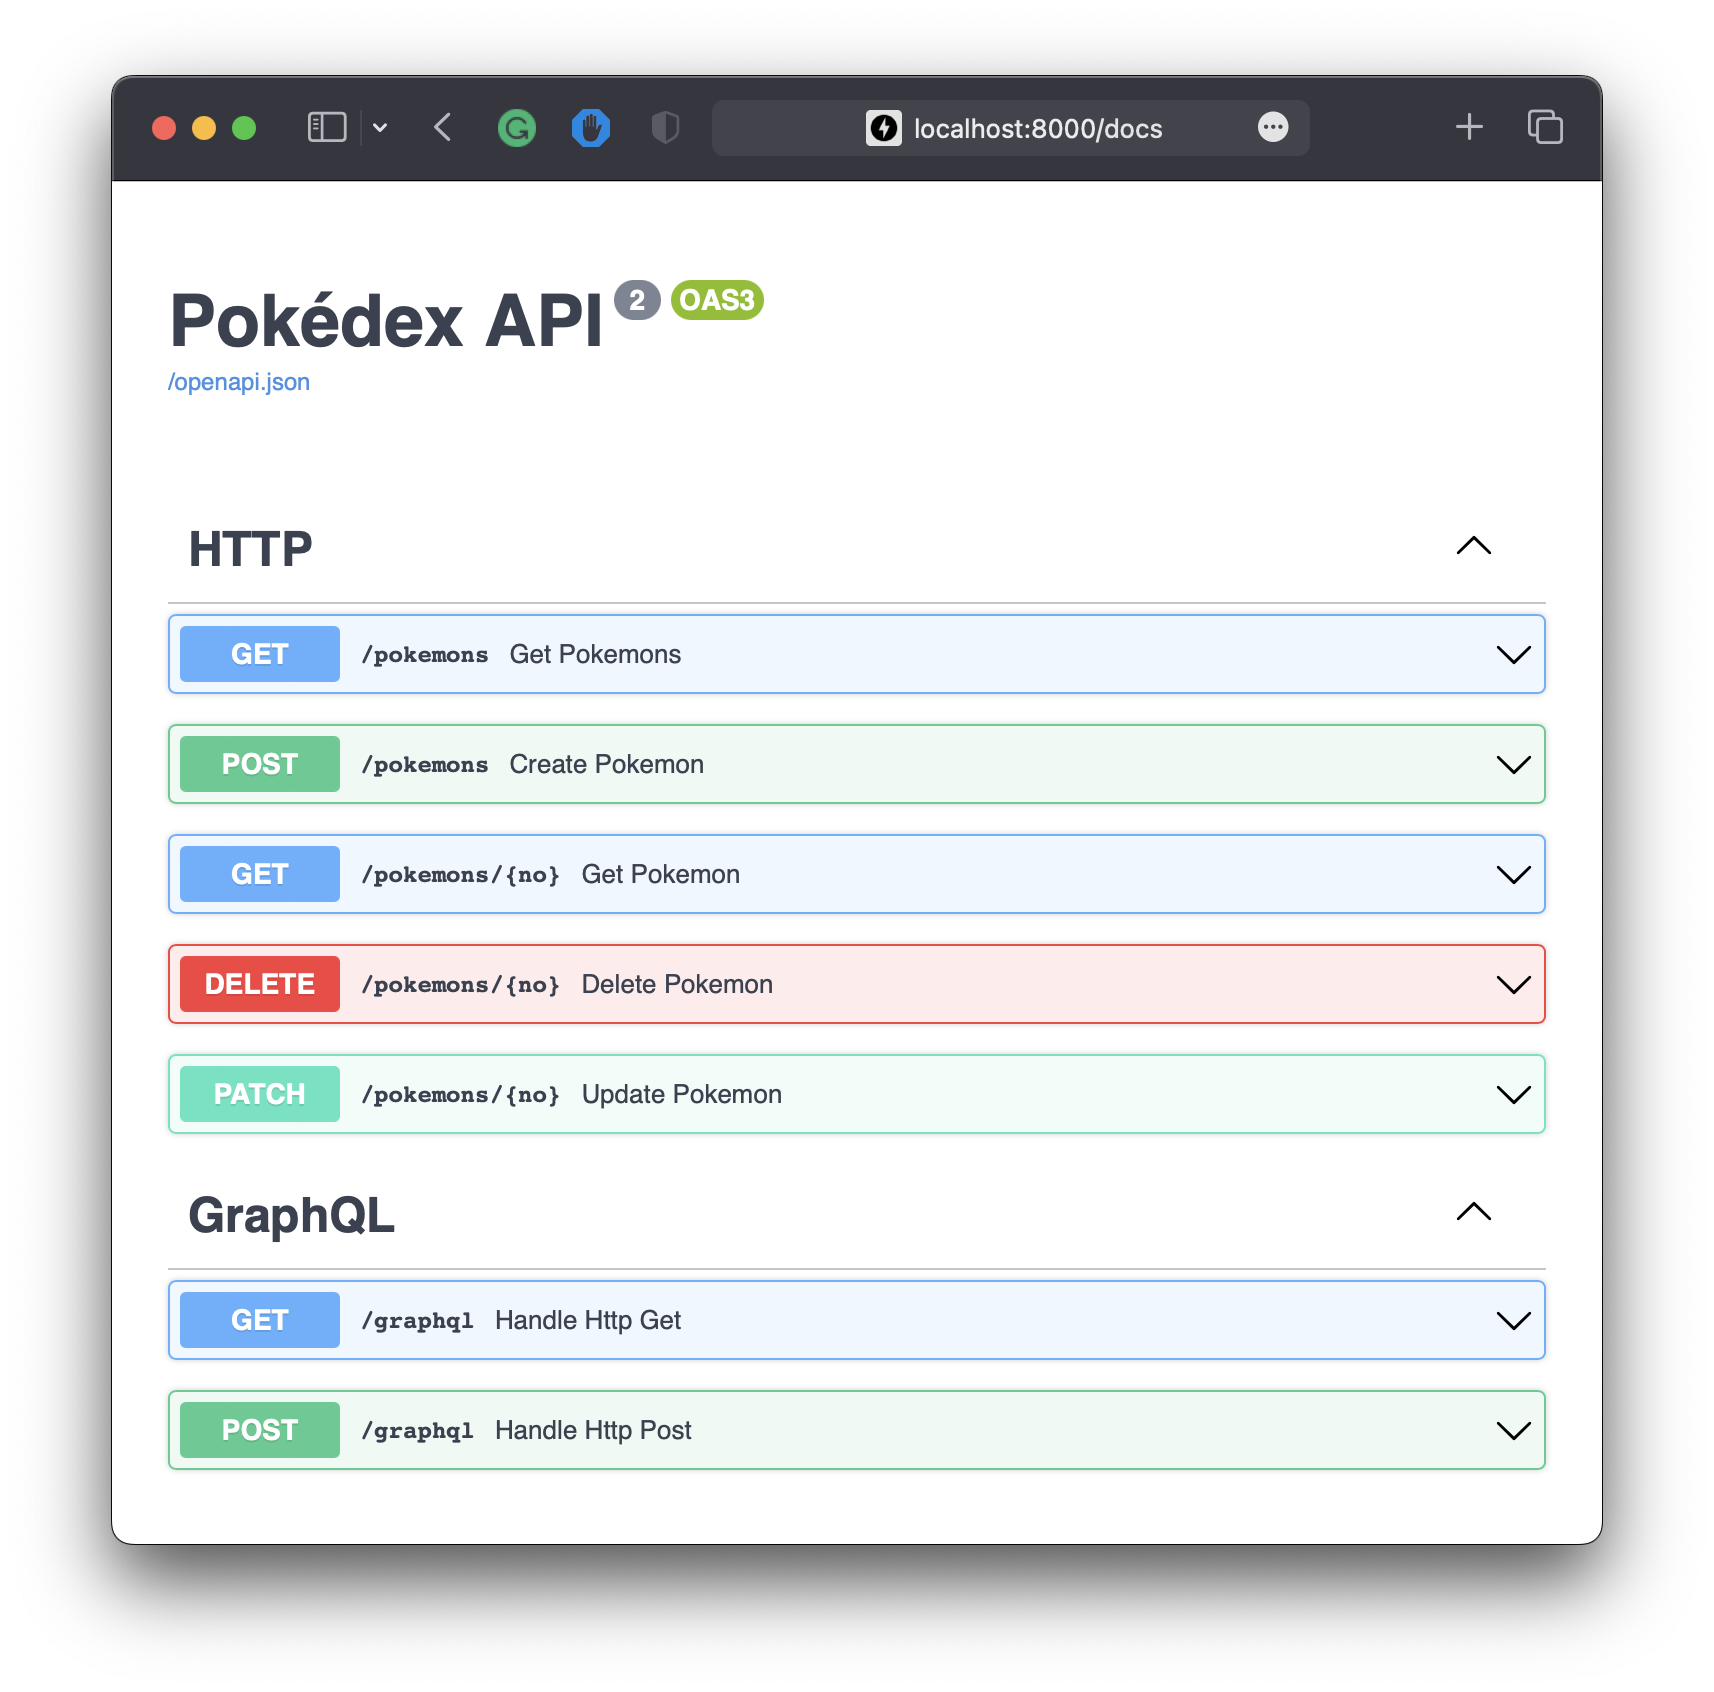
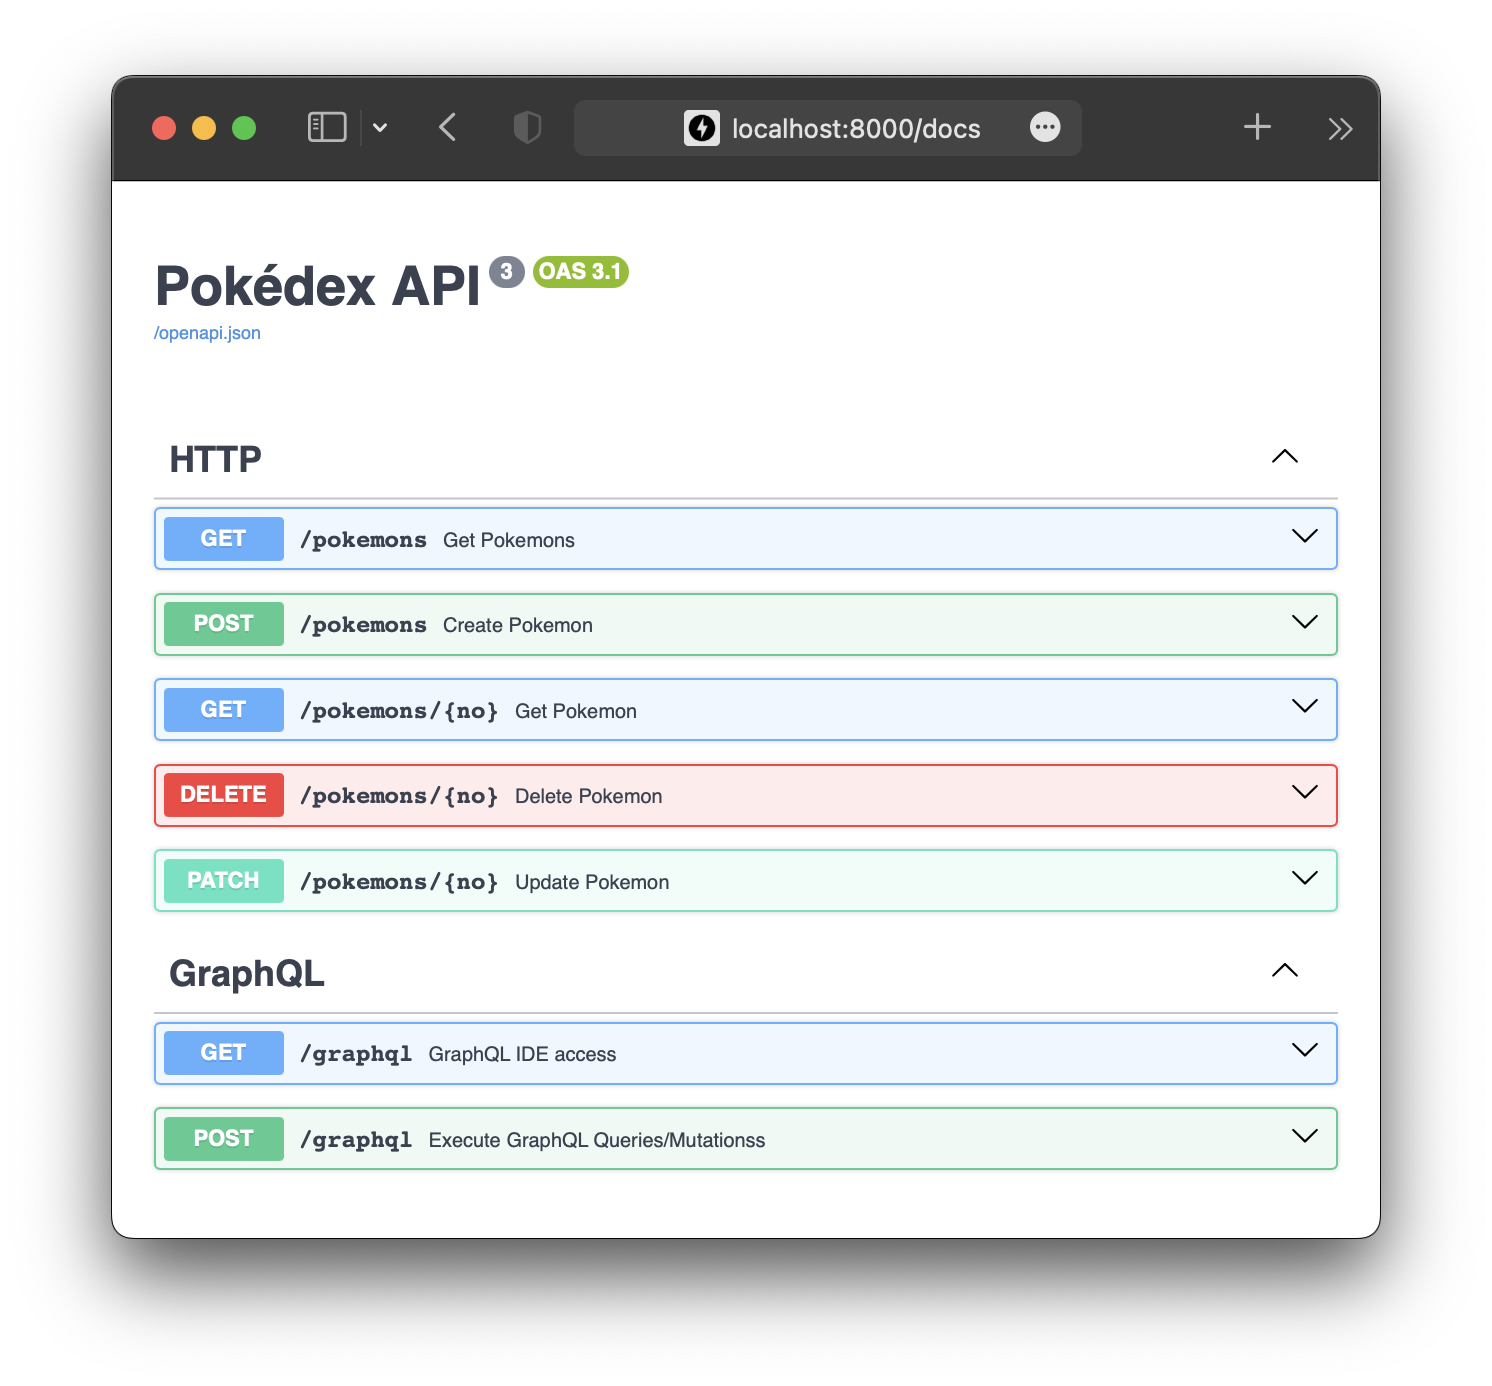
fix: graphql extension

Changed region(s): [[0.0308, 0.031, 0.9558, 0.9618]]

diff --git a/src/main.py b/src/main.py
@@ -2,6 +2,7 @@ from fastapi import FastAPI
 from fastapi.responses import JSONResponse
 from starlette.middleware.cors import CORSMiddleware
 
+from app.deliveries.graphql.extensions.fastapi import customize_graphql_openapi
 from app.deliveries.graphql.pokemon.router import router as pokemon_graphql_router
 from app.deliveries.http.extension import add_exception_handlers as http_add_exception_handlers
 from app.deliveries.http.pokemon.router import router as pokemon_http_router
@@ -28,6 +29,7 @@ http_add_exception_handlers(app)
 
 # deliveries/graphql
 app.include_router(pokemon_graphql_router, prefix='/graphql', tags=['GraphQL'])
+customize_graphql_openapi(app)
 
 
 @app.on_event('startup')

diff --git a/src/app/deliveries/http/extension.py b/src/app/deliveries/http/extension.py
@@ -6,9 +6,7 @@ domain-specific exceptions. It ensures that custom errors in the domain layer ar
 HTTP responses when they propagate to the HTTP layer.
 
 Note:
-For the moment, this module covers the necessary extensions for the given application requirements. If future needs
-demand more specialized configurations for different packages, consider structuring extensions as
-`extension/$package.py` for clarity and scalability.
+For simpler requirements, use extension.py. For more complex needs, consider extensions/$package.py for better clarity and scalability.
 """
 
 from typing import Union

diff --git a/src/app/deliveries/graphql/extensions/fastapi.py b/src/app/deliveries/graphql/extensions/fastapi.py
@@ -1,0 +1,8 @@
+from fastapi import FastAPI
+
+
+def customize_graphql_openapi(app: FastAPI) -> None:
+    openapi_schema = app.openapi()
+    if '/graphql' in openapi_schema['paths']:
+        openapi_schema['paths']['/graphql']['get']['summary'] = 'GraphQL IDE access'
+        openapi_schema['paths']['/graphql']['post']['summary'] = 'Execute GraphQL Queries/Mutationss'

diff --git a/src/app/deliveries/graphql/extensions/__init__.py b/src/app/deliveries/graphql/extensions/__init__.py
@@ -1,0 +1,8 @@
+"""
+Extensions for Deliveries Layer
+
+This module provides the base schema configuration for the GraphQL API using the strawberry framework.
+
+Note:
+For simpler requirements, use extension.py. For more complex needs, consider extensions/$package.py for better clarity and scalability.
+"""

diff --git a/src/app/deliveries/graphql/pokemon/router.py b/src/app/deliveries/graphql/pokemon/router.py
@@ -1,7 +1,7 @@
 from strawberry.fastapi import GraphQLRouter
 from strawberry.schema.config import StrawberryConfig
 
-from ..extension import Schema
+from ..extensions.strawberry import Schema
 from .mutation import Mutation
 from .query import Query
 

diff --git a/README.md b/README.md
@@ -90,7 +90,7 @@ $ make up
 
 application run on http://localhost:8000
 
-<img src="./docs/fastapi-doc.png" alt="fastapi-doc" style="zoom:40%;" />
+![fastapi-doc](./docs/fastapi-doc.png)
 
 ### Run the Testing
 
